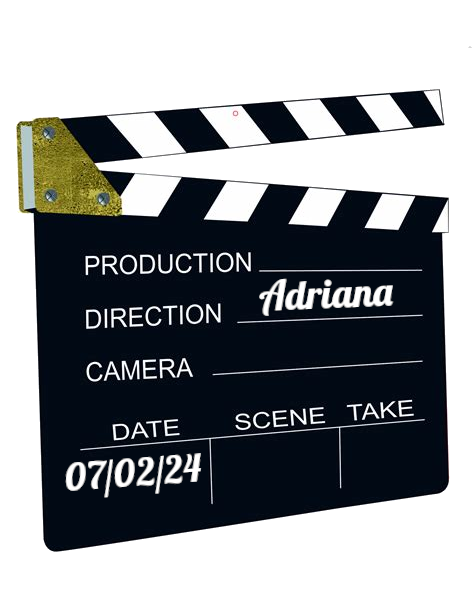
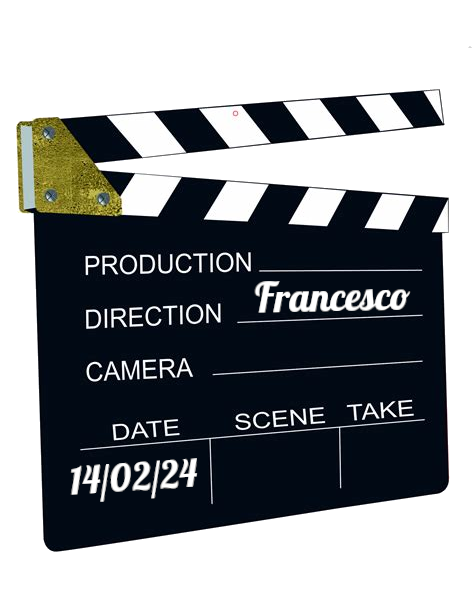
200 metri

Changed region(s): [[0.5316, 0.4332, 0.8565, 0.5261], [0.1181, 0.7427, 0.443, 0.8355]]

diff --git a/index.html b/index.html
@@ -39,16 +39,25 @@
 
 <br /><br /><hr width="90%"><hr width="90%"><br /><br />
 
-
-<h1>Mercoled&igrave; 7 febbraio 2024</h1>
+<h1>Mercoled&igrave; 14 febbraio 2024</h1>
 <h2>Alle 20:30 in Via Nizza, 72</h2>
 
 <img src="img/ciak.png" class="locandina"/>
 
-<h2>Selezionatrice: Adriana<i></i></h2>
+<h2>Selezionatore: Francesco<i></i></h2>
 
 
 <br /><br /><hr width="90%"><hr width="90%"><br /><br />
+
+<h1>Mercoled&igrave; 7 febbraio 2024</h1>
+<p class="mtitle">
+<a href="https://www.imdb.com/title/tt12246266" target="_blank">200 metri</a>
+</p>
+<img src="https://image.tmdb.org/t/p/w500/ycpJv1kVdGej7l6TsZc5W5TK1aZ.jpg" class="locandina"/>
+<h2>Selezionatrice: <i>Adriana</i></h2>
+
+<br /><br /><hr width="90%"><br /><br />
+
 
 <h1>Mercoled&igrave; 31 gennaio 2024</h1>
 <p class="mtitle">

diff --git a/movieslist.html b/movieslist.html
@@ -29,6 +29,17 @@ Rassegnamoci, Cineforum a Programma Variabile - Elenco Film
   </thead>
   <tbody>
     <tr>
+      <td>7-Feb-2024</td>
+      <td>200 metri</td>
+      <td>Adriana</td>
+      <td>-</td>
+      <td>2020</td>
+      <td>Ameen Nayfeh</td>
+      <td>96</td>
+      <td>IT; JO; PS; QA; SE</td>
+      <td><a href="https://www.imdb.com/title/tt12246266" target="_blank">https://www.imdb.com/title/tt12246266</a></td>
+    </tr>
+    <tr>
       <td>31-Gen-2024</td>
       <td>Accordi e disaccordi</td>
       <td>Serena</td>
